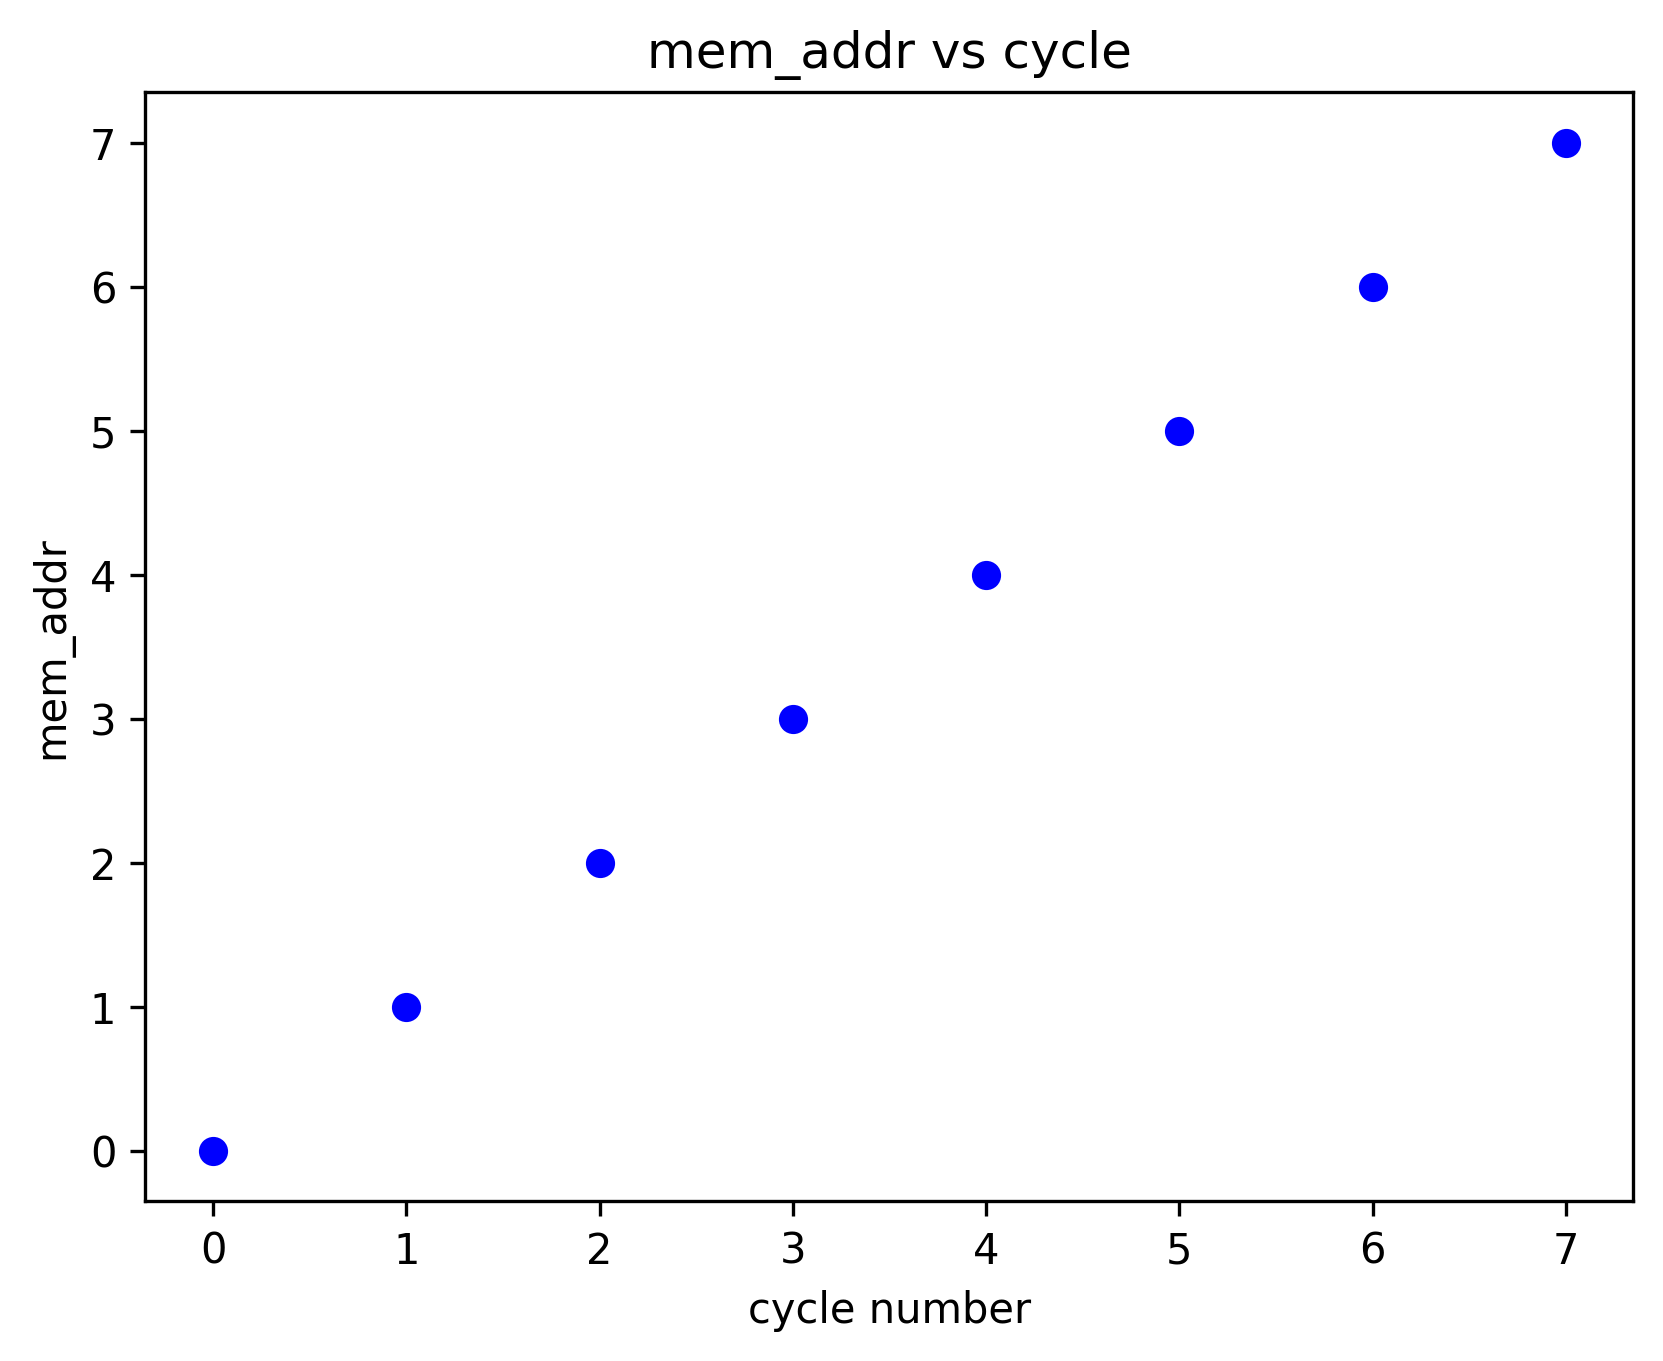
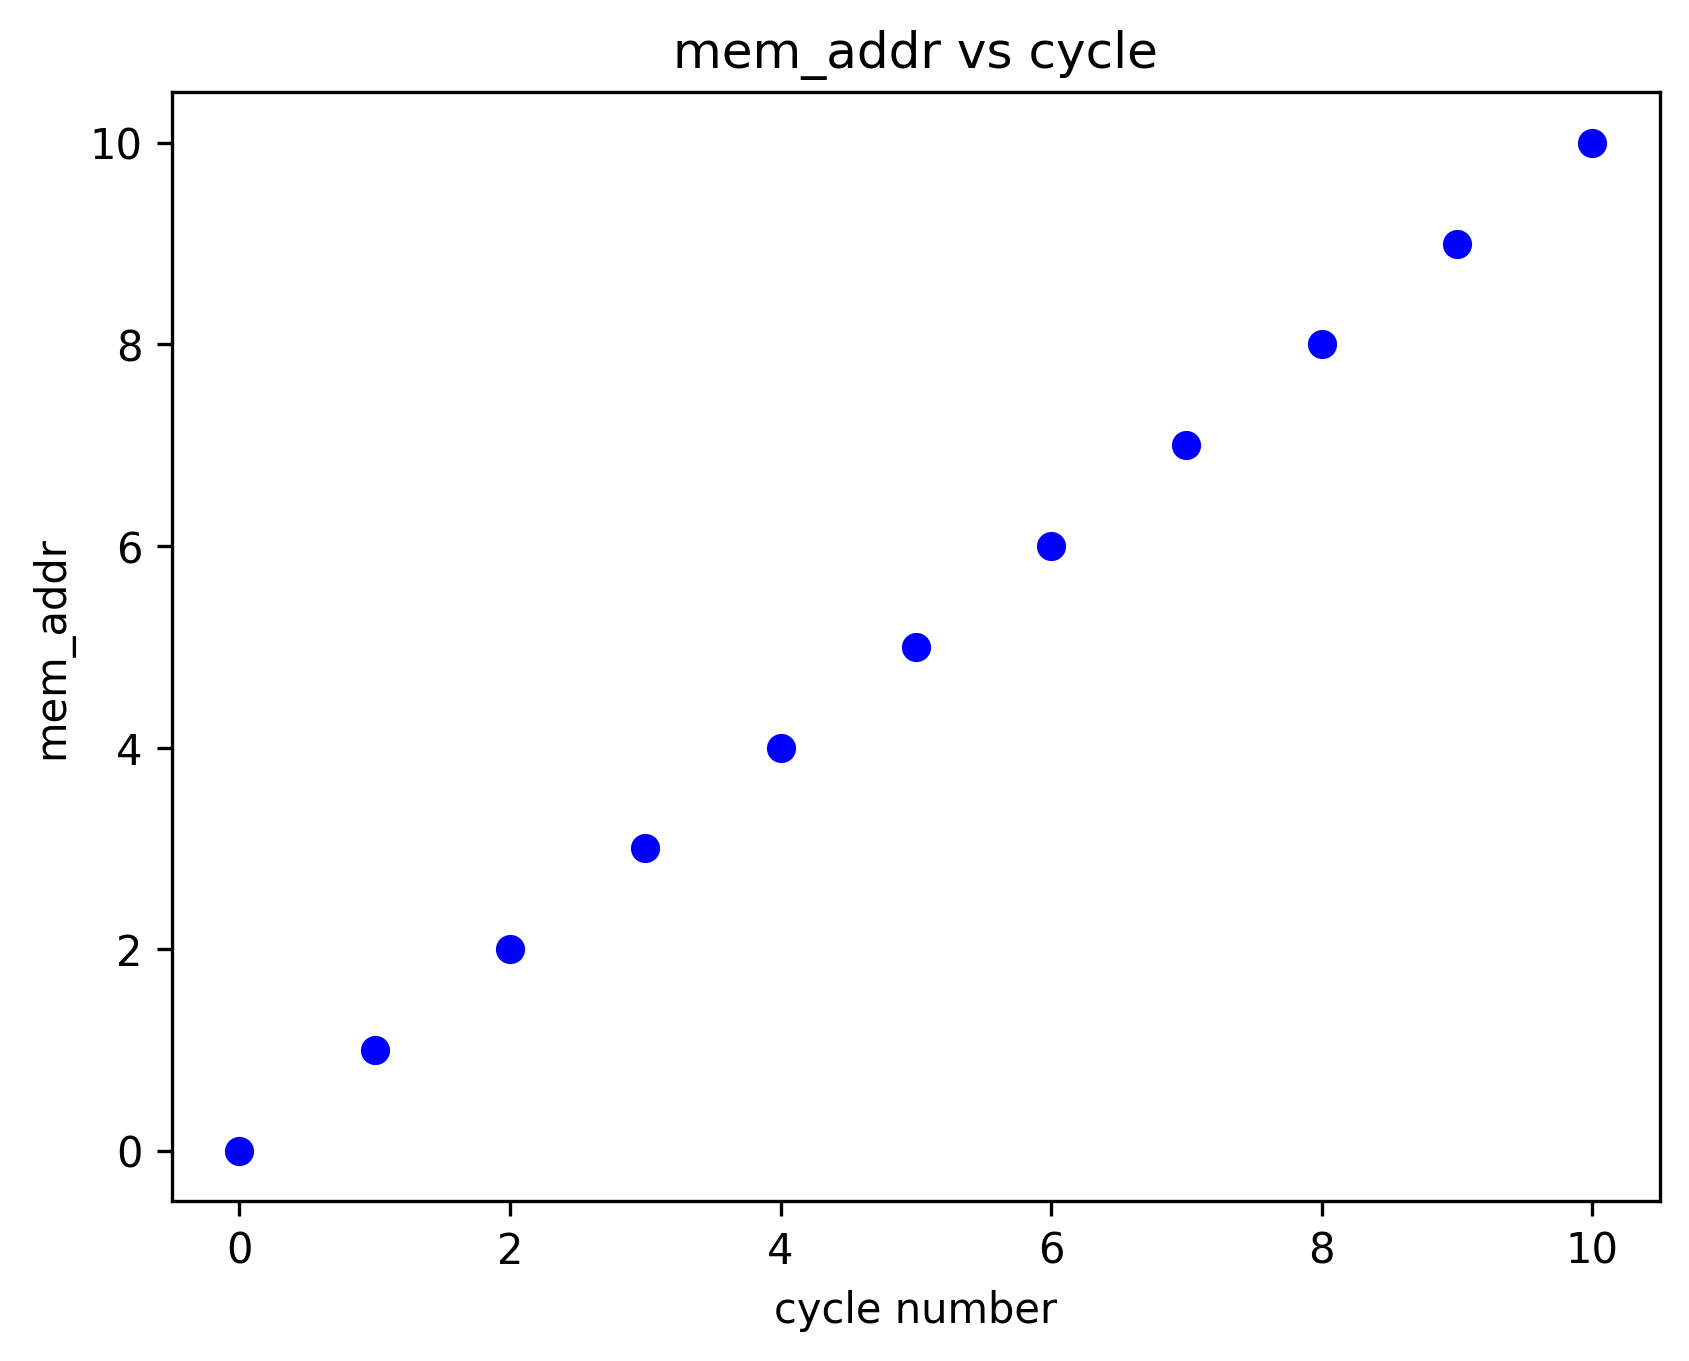
modified readme

diff --git a/SimpleSimulator/sim.py b/SimpleSimulator/sim.py
@@ -1,7 +1,4 @@
-# Ronit Methta -> 2020539
-# Ankit Chaurasia -> 2020027
-# Mithun -> 2020522
-
+import matplotlib.pyplot as plt
 from fun import *
 
 reg = {
@@ -204,11 +201,6 @@ for i in range(0,256):
     else:
         print("0000000000000000")
 
-
-#############################################################
-################### BONUS ###################################
-#############################################################
-import matplotlib.pyplot as plt
 
 plt.scatter(range(0,counter),dump,c = "blue")
 plt.title("mem_addr vs cycle")

diff --git a/Simple-Assembler/assembler.py b/Simple-Assembler/assembler.py
@@ -1,7 +1,3 @@
-# Ankit Chaurasia -> 2020027
-# Ronit Mehta -> 2020539
-# Mithun -> 2020522
-
 from fun import *
 
 def is_alpha(st):
@@ -24,7 +20,7 @@ def get_inp():
         try :
             line = input()
             if line == '':
-                pass
+                break
             elif line[:2] == '//':
                 varRead = True
                 pass

diff --git a/SimpleSimulator/fun.py b/SimpleSimulator/fun.py
@@ -1,7 +1,3 @@
-# Ronit Methta -> 2020539
-# Ankit Chaurasia -> 2020027
-# Mithun -> 2020522
-
 def add(reg, str1, str2, str3, flag):
     res = reg[str2] + reg[str3]
     if(res>65535):        # 16 bit

diff --git a/Simple-Assembler/fun.py b/Simple-Assembler/fun.py
@@ -1,7 +1,3 @@
-# Ankit Chaurasia -> 2020027
-# Ronit Mehta -> 2020539
-# Mithun -> 2020522
-
 reg = {
     "R0":"000",
     "R1":"001",
